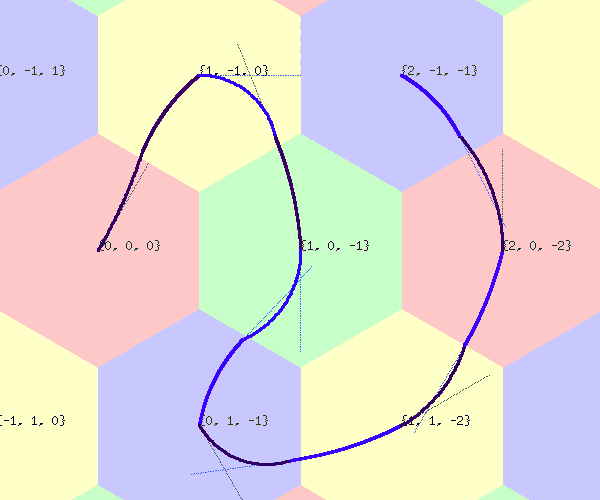
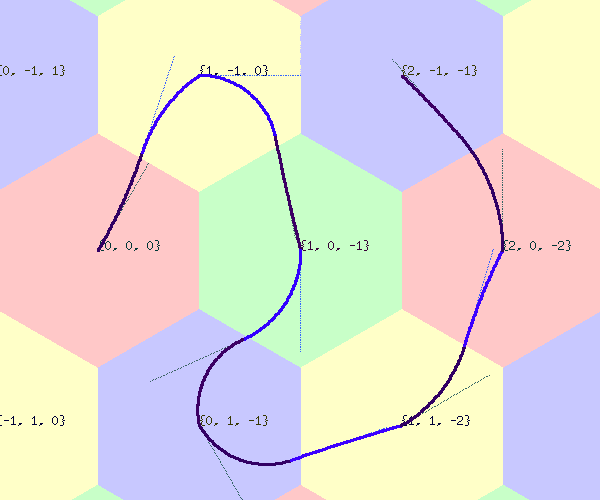
minor progress

diff --git a/curve/curve.go b/curve/curve.go
@@ -83,8 +83,30 @@ type Arc struct {
 	peA             float64
 }
 
-func lerpAngle(a, b, t float64) float64 {
-	return a + t*normalizeAngle(b-a)
+// lerpAngle traces an arc.
+// spin is clockwise (false) or counterclockwise (true)
+func lerpAngleohno(spin bool, a, b, t float64) float64 {
+	if spin {
+		return lerpAngle(false, b, a, t)
+	}
+	aN := normalizeAngle(a) + math.Pi
+	bN := normalizeAngle(b) + math.Pi
+
+	if aN < bN {
+		return aN + t*normalizeAngle(bN-aN)
+	}
+	return bN + (1.0-t)*normalizeAngle(aN-bN)
+
+	//return a + t*normalizeAngle(b-a)
+}
+
+// lerpAngle traces an arc.
+// spin is clockwise (false) or counterclockwise (true)
+func lerpAngle(spin bool, a, b, t float64) float64 {
+	if spin {
+		return a + t*normalizeAngle(b-a)
+	}
+	return b + (1.0-t)*normalizeAngle(a-b)
 }
 
 // normalizeAngle places the angle in the range of pi to -pi.
@@ -96,7 +118,7 @@ func normalizeAngle(a float64) float64 {
 // t is valid for 0 to 1, inclusive.
 func (ac Arc) Sample(t float64) (position, tangent, curvature pos.HexFractional) {
 
-	angle := lerpAngle(ac.piA, ac.peA, t)
+	angle := lerpAngle(ac.spin, ac.piA, ac.peA, t)
 
 	// sweep by some ratio of the maximal central angle to get position.
 	// ptX := ac.cX + ac.radius*math.Cos(angle)
@@ -105,7 +127,6 @@ func (ac Arc) Sample(t float64) (position, tangent, curvature pos.HexFractional)
 	position = unitPosition.Multiply(ac.radius).Add(ac.Center)
 
 	// and tangent...
-	// todo: this is broken
 	if ac.spin {
 		tangent = unitPosition.Rotate(pos.OriginFractional(), math.Pi/(2.0))
 	} else {
@@ -280,26 +301,6 @@ func newArc(pi, tiu, pe pos.HexFractional) Arc {
 	}
 }
 
-// getSpin determines if an arc defined by some point (px, py) and the
-// tangent (tx, ty) is going in the clockwise (false) or counterclockwise (true)
-// direction. Keep in mind that the bottom of your monitor is in the positive y
-// direction.
-// TODO: I think this is broken.
-func getSpin(px, py, tx, ty float64) bool {
-	if tx != 0 {
-		if py >= 0 {
-			return tx < 0
-		}
-		return tx > 0
-	} else if ty != 0 {
-		if px >= 0 {
-			return ty > 0
-		}
-		return ty < 0
-	}
-	panic("Can't determine direction")
-}
-
 // Piecewise is a Curver.
 type Piecewise struct {
 	segments []Curver
@@ -330,6 +331,28 @@ func (cs Piecewise) Sample(t float64) (position, tangent, curvature pos.HexFract
 // Length returns the length of the curve.
 func (cs Piecewise) Length() float64 {
 	return cs.length
+}
+
+// Spin returns the spin of the curve.
+func (cs Piecewise) Spin() (bool, error) {
+	if len(cs.segments) == 0 {
+		return false, errors.New("No segments, so spin is indeterminate")
+	}
+	prev, err := cs.segments[0].Spin()
+	if err != nil {
+		return false, err
+	}
+
+	for _, s := range cs.segments {
+		cSpin, cErr := s.Spin()
+		if cErr != nil {
+			return false, cErr
+		}
+		if cSpin != prev {
+			return false, errors.New("Segments have mixed spins")
+		}
+	}
+	return prev, nil
 }
 
 // Join creates a multipart curve.

diff --git a/draw/draw.go b/draw/draw.go
@@ -8,6 +8,7 @@ import (
 	"math"
 	"os"
 
+	"github.com/erinpentecost/hexcoord/curve"
 	"github.com/erinpentecost/hexcoord/pos"
 	"golang.org/x/image/font"
 	"golang.org/x/image/font/basicfont"
@@ -168,6 +169,25 @@ func (c Camera) Point(img *image.RGBA, col color.RGBA, p pos.HexFractional) {
 	img.SetRGBA(xImg-1, yImg-1, col)
 	img.SetRGBA(xImg-1, yImg+1, col)
 	img.SetRGBA(xImg+1, yImg-1, col)
+}
+
+// Curve draws curve on the image.
+func (c Camera) Curve(img *image.RGBA, col color.RGBA, curver curve.Curver) {
+	// Draw tangent lines
+	supportLen := 0.5
+	initPoint, initTan, _ := curver.Sample(0.0)
+	endPoint, endTan, _ := curver.Sample(1.0)
+	midPoint, midTan, _ := curver.Sample(0.5)
+	c.Line(img, color.RGBA{255, 0, 0, 255}, false, initPoint, initPoint.Add(initTan.Normalize().Multiply(supportLen)))
+	c.Line(img, color.RGBA{0, 0, 255, 255}, false, endPoint, endPoint.Add(endTan.Normalize().Multiply(supportLen)))
+	c.Line(img, color.RGBA{0, 255, 255, 255}, false, midPoint, midPoint.Add(midTan.Normalize().Multiply(supportLen)))
+
+	// Trace curve
+	sampleStep := float64(0.99) / (curver.Length() * c.Scale())
+	for s := 0.0; s < 1.0; s = s + sampleStep {
+		posHex, _, _ := curver.Sample(s)
+		c.Point(img, col, posHex)
+	}
 }
 
 // Line draws a line on the image.

diff --git a/example/drawPath_test.go b/example/drawPath_test.go
@@ -70,3 +70,42 @@ func TestSmoothCurveDrawing(t *testing.T) {
 	fmt.Println(fpath)
 
 }
+
+func TestHappyFaceDrawing(t *testing.T) {
+
+	dd := draw.DefaultDecorator{}
+	cc := draw.NewCamera(600, 500, 0.1, pos.Hex{Q: 1, R: 0})
+
+	img := cc.Render(dd)
+
+	// mouth
+	clockwiseArc := curve.CircularArc{
+		I: pos.HexFractional{Q: 2, R: 0},
+		T: pos.HexFractional{Q: -1, R: 2},
+		E: pos.HexFractional{Q: 0, R: 0},
+	}
+
+	// left eye
+	counterclockwiseArc := curve.CircularArc{
+		I: pos.HexFractional{Q: 1, R: -1},
+		T: pos.HexFractional{Q: 1, R: -2},
+		E: pos.HexFractional{Q: 0, R: -1},
+	}
+
+	// right eye, wink
+	lineArc := curve.CircularArc{
+		I: pos.HexFractional{Q: 2, R: -1},
+		T: pos.HexFractional{Q: 1, R: 0},
+		E: pos.HexFractional{Q: 3, R: -1},
+	}
+
+	black := color.RGBA{0, 0, 0, 255}
+
+	cc.Curve(img, black, clockwiseArc.Curve())
+	cc.Curve(img, black, counterclockwiseArc.Curve())
+	cc.Curve(img, black, lineArc.Curve())
+
+	fpath, err := draw.Save(img, "TestHappyFaceDrawing.png")
+	assert.NoError(t, err, fpath)
+	fmt.Println(fpath)
+}
